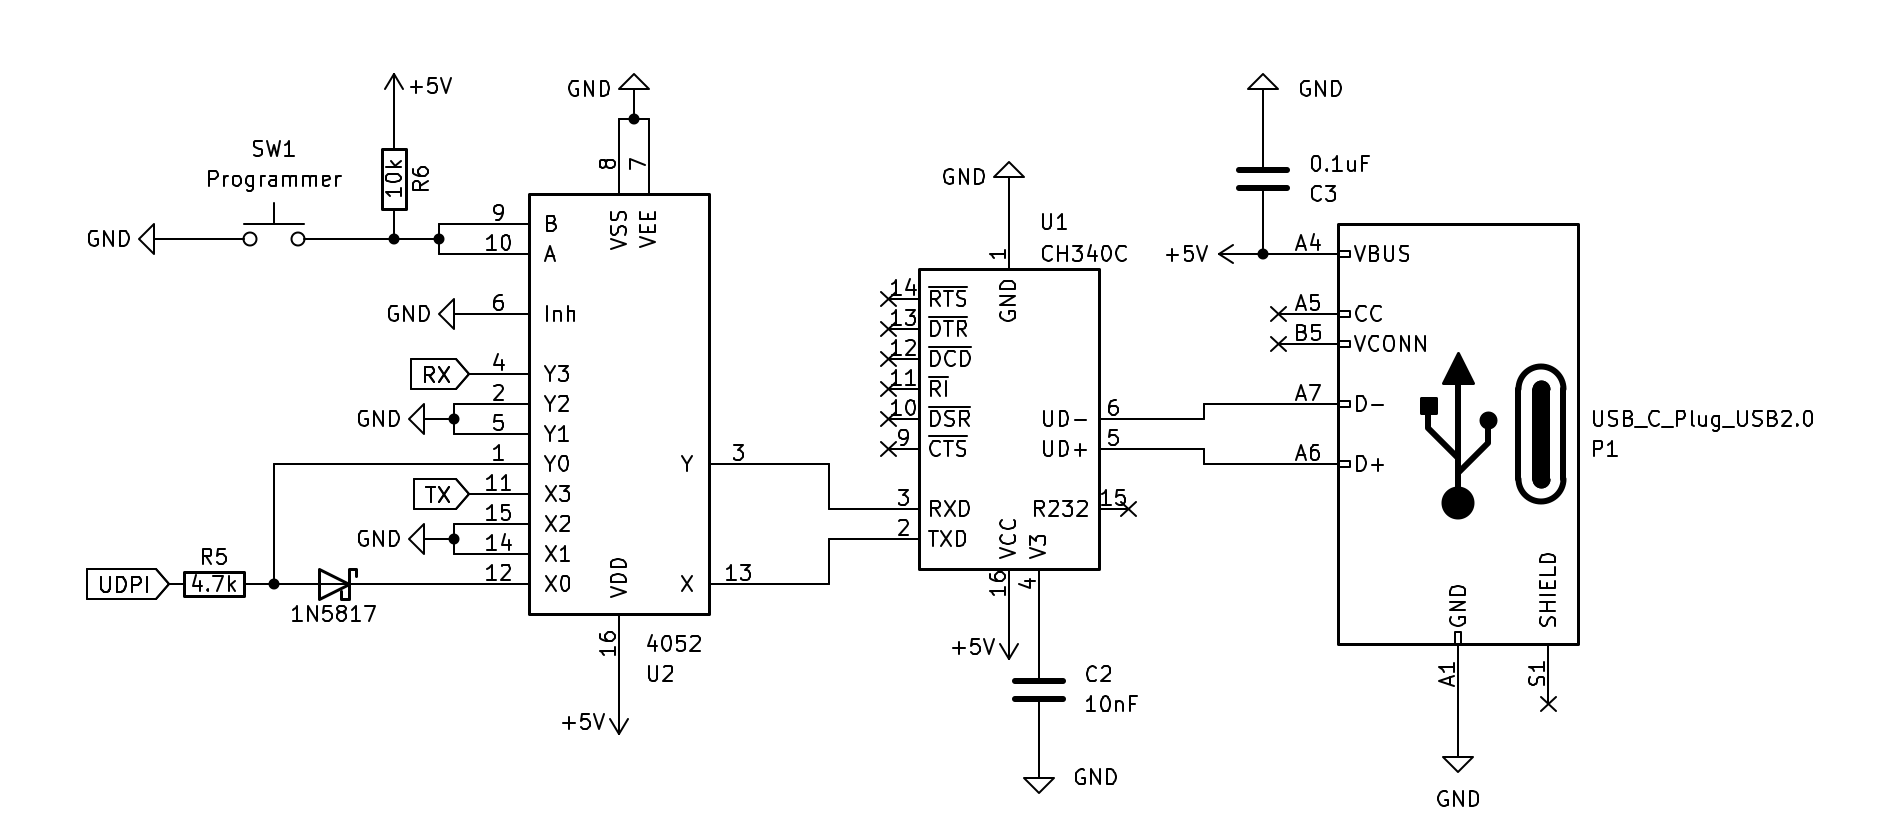
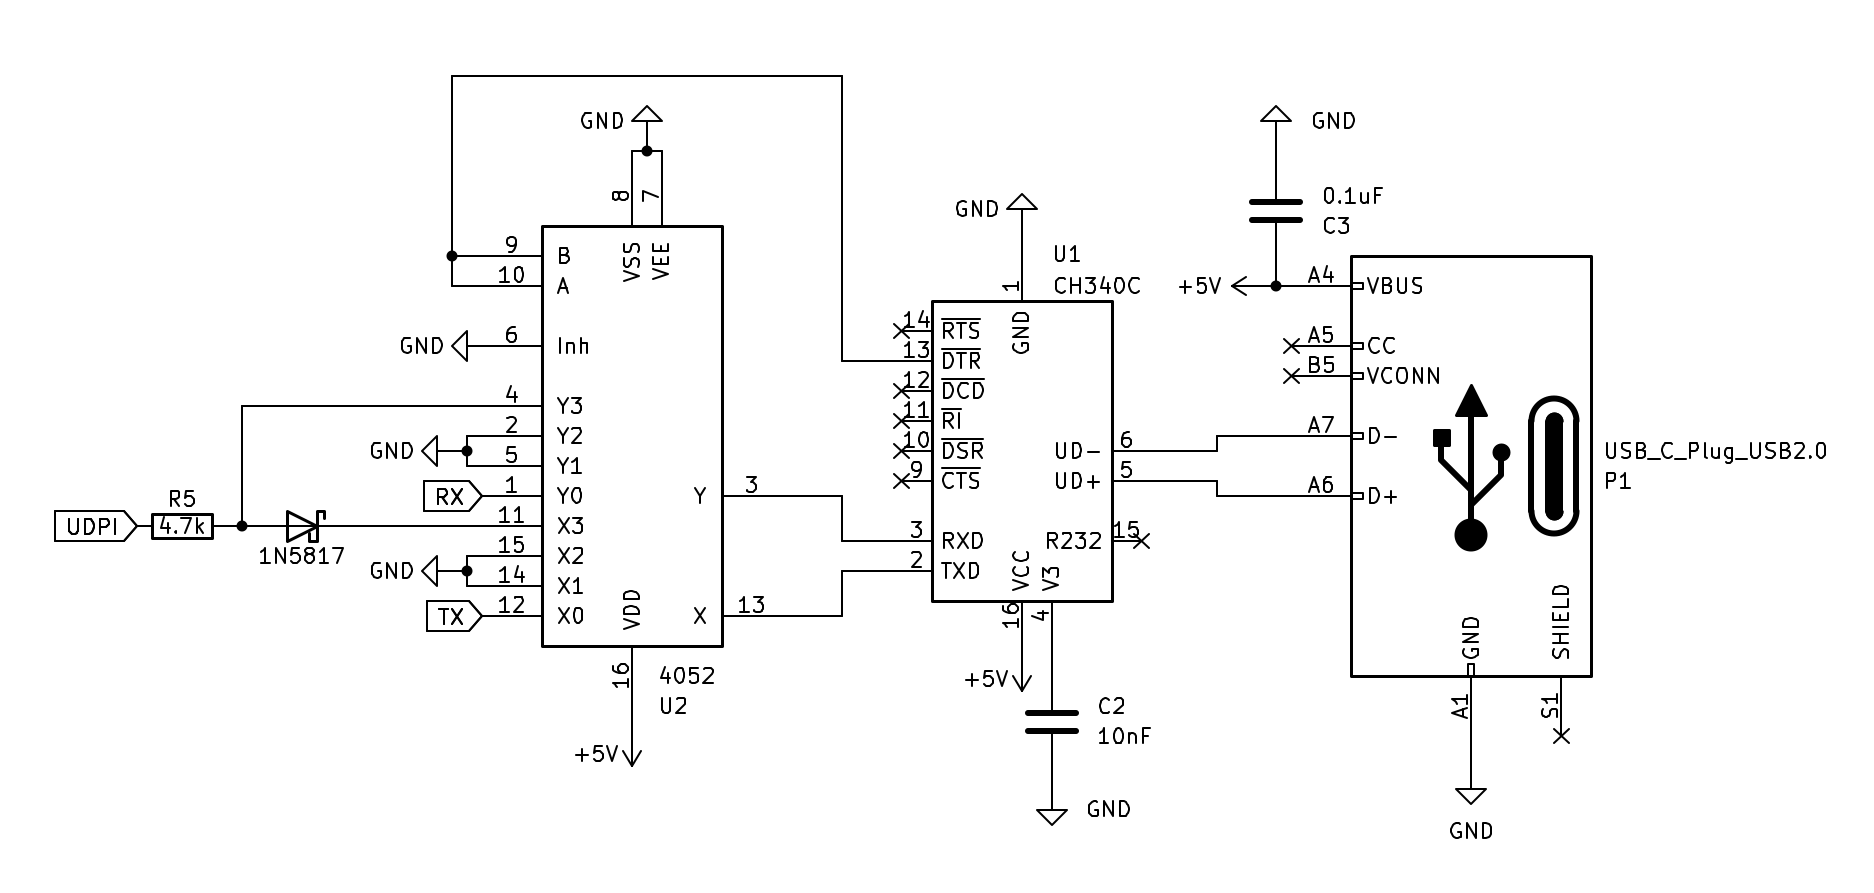
Save changes at: 1757277346

diff --git a/content/electronic/integrated-circuit/CH340/serial+updi.md b/content/electronic/integrated-circuit/CH340/serial+updi.md
@@ -4,9 +4,11 @@ title = 'Serial + UPDI'
 
 ![](breadboard.png)
 
-Esta idea la obtuve de [MCS Electronics](https://avrhelp.mcselec.com/index.html?updi_programmer.htm), ellos no usan `avrdude` y en el ejemplo usan un CI 4053. Al entender cómo funciona su solución hice los cambios más lógicos a mi parecer usando un 4052 y un pulsador.
+Imaginate poder usar al mismo tiempo Serial (USB Communications Device Class CDC) + UPDI, quiero decir que puedes programar el MCU usando UPDI, y por el otro lado poder leer y escribir en el puerto Serial. Todo esto es posible gracias al CI 4052 que hace de interruptor y es controlado por el CI CH340.
 
-Es posible usar el mismo CI para tener las dos funciones, pero se necesita un CI adicional que haga de switch (4052) para ir alternando a UART o UPDI y que será controlado por un pulsador, al ser presionado se activa el modo "programmer" como lo llamo yo, cuando no está presionado esta en el modo "data" o serial para que nos podamos entender. En el ejemplo de [MCS Electronics](https://avrhelp.mcselec.com/index.html?updi_programmer.htm) usan el pin DTR (Data Terminal Ready) para controlar estos modos del 4052, a pesar de que conceptualmente funciona, pero en la práctica no del todo debido a que los clientes cómo [CoolTerm](https://freeware.the-meiers.org/), [picocom](https://github.com/npat-efault/picocom) entre otros usan el DTR y termina no funcionando bien.
+Esta idea la obtuve de [MCS Electronics](https://avrhelp.mcselec.com/index.html?updi_programmer.htm), ellos no usan `avrdude` y en el ejemplo usan un CI 4053. Al entender cómo funciona su solución hice los cambios más lógicos a mi parecer usando un 4052.
+
+Es posible usar el mismo CI para tener las dos funciones, pero se necesita un CI adicional que haga de switch (4052) para ir alternando entre UART (donde está el CDC) y UPDI y que será controlado por el pin RTS (Request to Send) del CH340, cuando se pone el pin del RTS en alto/hight tambien pasara con los pines de conmutacion A y B del CI 4052 y se activa el modo "programmer" como lo llamo yo, y cuando el pin RTS esta en bajo/LOW los pines de control A y B tambien lo están y se activa el modo "data" o seríal para que nos podamos entender.
 
 ![](funcional-diagram-pinout.png)
 
@@ -14,15 +16,36 @@ Es posible usar el mismo CI para tener las dos funciones, pero se necesita un CI
 
 - Un IC CH340.
 - Un IC CD4052B.
-- Un pulsador.
 - Condensador de 10nF.
 - Condensador de 100nF / 0.1uF, Código: 104, Cantidad: 2.
 - Resistencia de 4.7k.
-- Resistencia de 10k.
 - Diodo schottky 1N5817 (puede ser otro; BAT43).
 
 ## Esquema
 
-El CI 4052 permitirá usar un pin de control A y B en paralelo para redirigir la entrada TX y RX del CH340, al circuito de UPDI o a los pines del UART del MCU. El pulsador que hace de programador está configurado en modo PullUp.
+El CI 4052 permitirá usar un pin de control A y B en paralelo para redirigir la entrada TX y RX del CH340, al circuito de UPDI o a los pines del UART del MCU.
+
+{{% blockquote type="warning" %}}
+Se debe mantener el UART conectados a los pines X0 y Y0, y el UPDI X3 y Y3 del CI 4052. De esta forma funciona perfectamente, si invierte a pesar de que parezca lógico, NO funciona bien. Esto es debido a que se necesita interrumpir la comunicación del UART cuando necesitamos hacer uso del UPDI.
+{{% /blockquote %}}
 
 ![](schematic3.png)
+
+## Cómo progamar usando el UPDI
+
+Debemos indicarle al `avrdude` que ponga el pin del RTS en alto/hight de la siguiente forma `-x rtsdtr=hight`.
+
+```bash
+avrdude -c serialupdi -p avr128da28 -P /dev/tty.usbserial-2110 -e -F -x rtsdtr=hight
+avrdude -c serialupdi -p avr128da28 -P /dev/tty.usbserial-2110 -p avr128da28 -x rtsdtr=hight -F -V -D -U flash:w:main.hex
+```
+
+## Cómo usar el CDC
+
+Puedes usar los clientes [CoolTerm](https://freeware.the-meiers.org/) o [picocom](https://github.com/npat-efault/picocom), te lo dejo a gusto.
+
+```bash
+picocom --lower-rts -b 115200 /dev/tty.usbserial-2110
+```
+
+¿Cómo salir del [picocom](https://github.com/npat-efault/picocom)? Debes presionar la siguiente combinación de teclas: Control + a y luego Control + x
